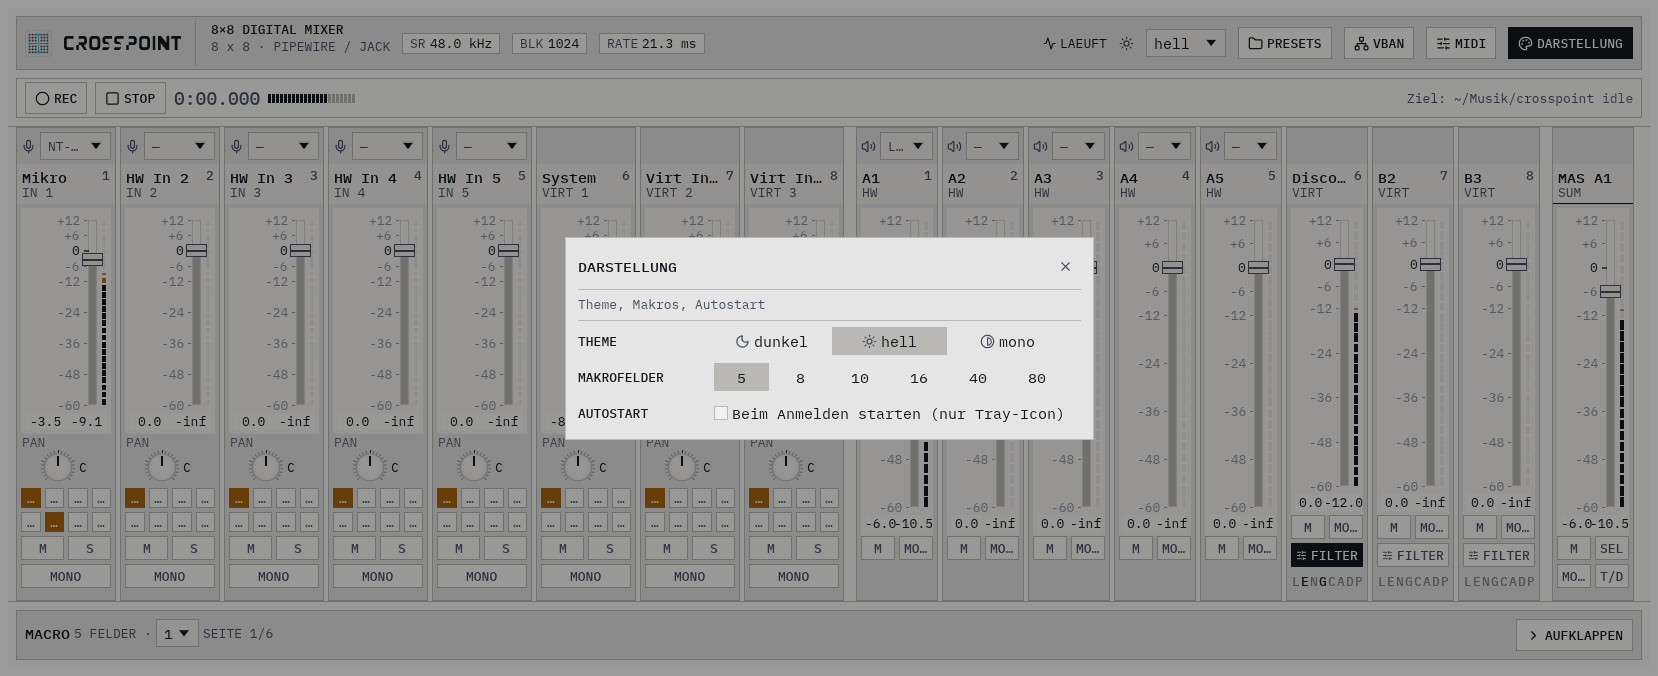
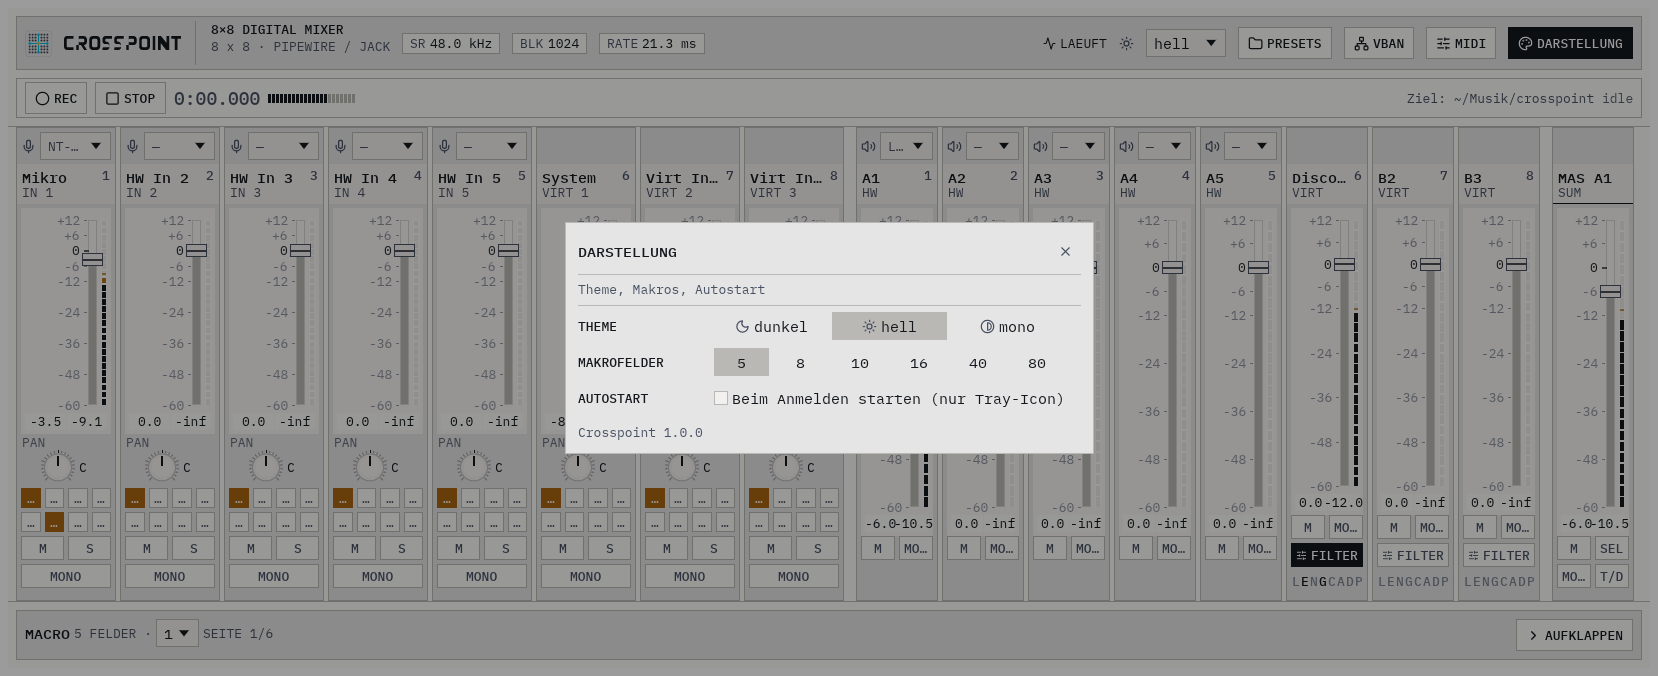
feat: Version unten im DARSTELLUNG-Dialog
Die Version ist jetzt ein Datum im Modell (`Oberflaeche::version`) und
kommt von außen: `src/bin/crosspoint.rs` liest sie aus dem Wurzelpaket
(`env!("CARGO_PKG_VERSION")`) und reicht sie an `betrieb::starten`, das
sie ins Modell legt. Kein `env!` in der Darstellung, und nicht die
Version des Fenster-Crates – das wäre die der Bibliothek.

Unten im DARSTELLUNG-Dialog steht deshalb gedämpft und linksbündig im
Rahmen `Crosspoint 1.0.0` – dieselbe Zahl wie `--version`, in der
Textschrift und im Token für zurückgenommene Schrift, ohne Scrollen.
Gibt es keine Version im Modell (`None`), bleibt die Zeile weg.

Test: `version_steht_unten_in_der_darstellung` prüft bei 1590×640 und
in Mindestgröße, dass die Zeile im Dialog unter dem Autostart steht, den
gedämpften Token trägt und nichts scrollt. Die Version der Bilder und
des Beispielmodells kommt aus der `Cargo.toml` der Wurzel, damit sie
nicht auseinanderläuft. Bilder `darstellung-{dark,light,mono}.png` neu
erzeugt, README und `docs/architektur.md` ergänzt.

Changed region(s): [[0.3384, 0.3107, 0.6767, 0.6834]]

diff --git a/crates/fenster/tests/oberflaeche.rs b/crates/fenster/tests/oberflaeche.rs
@@ -43,6 +43,21 @@ fn eintrag(name: &str, anzeige: &str) -> Eintrag {
     }
 }
 
+/// Die Version, die das Programm anzeigt: sie steht im **Wurzelpaket**
+/// (`Cargo.toml` oben, AGENTS.md §6) und wird im Betrieb vom Binary ins Modell
+/// gelegt. `env!("CARGO_PKG_VERSION")` wäre hier die Version dieses Crates –
+/// deshalb gelesen, nicht abgefragt.
+fn version_der_wurzel() -> String {
+    let pfad = std::path::Path::new(env!("CARGO_MANIFEST_DIR")).join("../../Cargo.toml");
+    let text = std::fs::read_to_string(&pfad).unwrap_or_else(|e| panic!("{}: {e}", pfad.display()));
+    text.lines()
+        .skip_while(|z| z.trim() != "[package]")
+        .skip(1)
+        .find_map(|z| z.trim().strip_prefix("version = "))
+        .map(|v| v.trim().trim_matches('"').to_string())
+        .expect("version im [package] der Wurzel-Cargo.toml")
+}
+
 /// Ein Pult wie im Alltag: Mikro auf A1 und B1, Systemton auf A1, Pegel.
 fn beispiel(thema: Thema) -> (Fenster, Arc<Params>) {
     let params = Arc::new(Params::new(48_000.0, 1024));
@@ -78,6 +93,7 @@ fn beispiel(thema: Thema) -> (Fenster, Arc<Params>) {
     };
     let mut o = Oberflaeche {
         thema,
+        version: Some(version_der_wurzel()),
         ..Oberflaeche::default()
     };
     o.geraete = Geraete::Fertig(Box::new(Bestand {
@@ -154,6 +170,24 @@ fn gezeichnete_flaechen(h: &Harness<'static, Fenster>, farbe: egui::Color32) -> 
             _ => None,
         })
         .collect()
+}
+
+/// Die Farbe, in der ein Text gemalt wurde – so lässt sich prüfen, dass eine
+/// Zeile den Token für gedämpfte Schrift trägt und nicht den der Bedienung.
+fn textfarbe(h: &Harness<'static, Fenster>, inhalt: &str) -> Option<egui::Color32> {
+    fn suche(shape: &egui::Shape, inhalt: &str) -> Option<egui::Color32> {
+        match shape {
+            egui::Shape::Text(t) if t.galley.text() == inhalt => {
+                t.galley.job.sections.first().map(|s| s.format.color)
+            }
+            egui::Shape::Vec(teile) => teile.iter().find_map(|s| suche(s, inhalt)),
+            _ => None,
+        }
+    }
+    h.output()
+        .shapes
+        .iter()
+        .find_map(|cs| suche(&cs.shape, inhalt))
 }
 
 #[test]
@@ -1339,6 +1373,68 @@ fn darstellung_hat_rand_und_gleiche_kanten() {
         assert!(
             rechts[0] <= dialog.right() - thema::SPACE_2,
             "{name}: die Knöpfe enden am Rahmen"
+        );
+    }
+}
+
+/// Die Version steht unten in der DARSTELLUNG: gedämpft in der Schrift der
+/// Beschriftungen, linksbündig im Rahmen unter dem Autostart, nichts scrollt –
+/// und die Zahl kommt aus dem Modell (`betrieb::starten` legt sie hinein,
+/// `--version` gibt dieselbe aus).
+#[test]
+fn version_steht_unten_in_der_darstellung() {
+    use crosspoint_fenster::modell::{Aktion, Dialog};
+    use crosspoint_fenster::thema;
+    let zeile = format!("Crosspoint {}", version_der_wurzel());
+    let min = mindestgroesse();
+    for (breite, hoehe, name) in [(ALLTAG.x, ALLTAG.y, "1590"), (min.x, min.y, "Mindestgröße")] {
+        let (mut f, _) = beispiel(Thema::Dunkel);
+        f.ausfuehren(Aktion::Dialog(Some(Dialog::Darstellung)));
+        let mut h = harness(f, (breite, hoehe));
+        h.run_steps(6);
+        let fenster = egui::Rect::from_min_size(egui::Pos2::ZERO, egui::vec2(breite, hoehe));
+        let dialog = h.get_by_label("Dialog DARSTELLUNG").rect();
+        assert!(
+            fenster.contains_rect(dialog),
+            "{name}: Dialog {dialog:?} läuft aus dem Fenster {fenster:?}"
+        );
+        // Der zugängliche Name der Zeile ist die Zeile selbst.
+        let text = h.get_by_label(&zeile).rect();
+        assert!(
+            dialog.contains_rect(text),
+            "{name}: {text:?} steht nicht im Dialog {dialog:?}"
+        );
+        // Unten: unter dem Autostart-Kästchen, mit Abstand zum Rahmen und
+        // linksbündig wie die Beschriftungen darüber.
+        let autostart = h
+            .get_all_by_label_contains("Beim Anmelden starten")
+            .next()
+            .expect("Autostart-Text fehlt")
+            .rect();
+        assert!(
+            text.top() > autostart.bottom(),
+            "{name}: die Version steht nicht unter dem Autostart ({text:?} / {autostart:?})"
+        );
+        assert!(
+            text.left() >= dialog.left() && text.right() < dialog.right() - thema::SPACE_2,
+            "{name}: die Version stößt an den Rahmen ({text:?} / {dialog:?})"
+        );
+        assert!(
+            text.bottom() <= dialog.bottom(),
+            "{name}: die Version läuft unten aus dem Dialog ({text:?} / {dialog:?})"
+        );
+        // Gedämpft heißt: der Token für zurückgenommene Schrift, nicht der
+        // für die Beschriftungen.
+        assert_eq!(
+            textfarbe(&h, &zeile),
+            Some(Thema::Dunkel.farben().text_muted),
+            "{name}: die Version steht nicht in der gedämpften Farbe"
+        );
+        assert_eq!(
+            h.query_all_by_role(egui::accesskit::Role::ScrollBar)
+                .count(),
+            0,
+            "{name}: Scrollbalken im Dialog"
         );
     }
 }

diff --git a/crates/fenster/src/betrieb.rs b/crates/fenster/src/betrieb.rs
@@ -149,7 +149,7 @@ pub fn danach(
 /// und Symbol laufen weiter, „Fenster zeigen“ öffnet ein neues. So geht es
 /// unter Wayland und X11 gleich – ein Fenster *verstecken* kann winit unter
 /// Wayland nicht.
-pub fn starten(app_id: &str, a: Args) {
+pub fn starten(app_id: &str, version: &str, a: Args) {
     // Läuft schon eine Instanz, zeigt sie ihr Fenster – eine zweite Engine
     // gäbe es sonst doppelt (gleicher Port, gleiche virtuelle Geräte).
     if laufende_instanz_wecken(&a.listen, a.minimiert) {
@@ -187,7 +187,12 @@ pub fn starten(app_id: &str, a: Args) {
     let mut erstes = true;
     loop {
         if zeigen {
-            let mut o = Oberflaeche::default();
+            // Die Version der Anwendung, nicht die dieses Crates: sie kommt
+            // aus dem Binary (Wurzelpaket) und steht unten in der DARSTELLUNG.
+            let mut o = Oberflaeche {
+                version: Some(version.to_string()),
+                ..Oberflaeche::default()
+            };
             konfig::Datei::laden(&konfig::pfad()).anwenden(&mut o);
             o.echo_geraete = crosspoint::echo::auswahl();
             if let Some(t) = a.theme.as_deref() {

diff --git a/crates/fenster/src/modell.rs b/crates/fenster/src/modell.rs
@@ -159,6 +159,11 @@ impl Pegel {
 /// Alles, was das Fenster neben `Params` weiß.
 #[derive(Debug, Clone)]
 pub struct Oberflaeche {
+    /// Version des Wurzelpakets (`CARGO_PKG_VERSION`), wie `--version` sie
+    /// ausgibt. Sie kommt von außen (`betrieb::starten`), nicht aus diesem
+    /// Crate: hier steht nur die Zahl, die in der DARSTELLUNG unten steht.
+    /// `None` = unbekannt, dann bleibt die Zeile weg.
+    pub version: Option<String>,
     pub thema: Thema,
     /// Bus, den der Master-Zug bedient.
     pub master_bus: usize,
@@ -193,6 +198,7 @@ pub struct Oberflaeche {
 impl Default for Oberflaeche {
     fn default() -> Self {
         Oberflaeche {
+            version: None,
             thema: Thema::default(),
             master_bus: 0,
             dialog: None,

diff --git a/crates/fenster/src/ansichten/dialoge.rs b/crates/fenster/src/ansichten/dialoge.rs
@@ -478,4 +478,19 @@ fn darstellung(ui: &mut Ui, f: &Farben, o: &mut Oberflaeche, a: &mut Vec<Aktion>
             }
             ui.end_row();
         });
+    // Unten die Version – gedämpft und linksbündig im Rahmen, wie die
+    // Beschriftungen oben. Sie ist keine Einstellung, sondern eine Auskunft:
+    // dieselbe Zahl, die `crosspoint --version` ausgibt.
+    if let Some(version) = &o.version {
+        ui.add_space(thema::SPACE_2);
+        ui.add(
+            Label::new(bausteine::text(
+                f,
+                &format!("Crosspoint {version}"),
+                false,
+                true,
+            ))
+            .truncate(),
+        );
+    }
 }

diff --git a/src/bin/crosspoint.rs b/src/bin/crosspoint.rs
@@ -19,5 +19,5 @@ fn main() {
         return;
     }
     let args = crosspoint_fenster::betrieb::args_lesen();
-    crosspoint_fenster::betrieb::starten("de.weppelmann.Crosspoint", args);
+    crosspoint_fenster::betrieb::starten("de.weppelmann.Crosspoint", VERSION, args);
 }

diff --git a/docs/architektur.md b/docs/architektur.md
@@ -128,6 +128,14 @@ Themes (`dark`, `light`, `mono`), keine Nutzer-Themes, kein Theme-Editor.
   Skalenzahlen stehen immer da; reicht die Höhe nicht für die Makrofelder,
   zeigt die Leiste nur ihre Kopfzeile. Wählbar bleiben Theme und Zahl der
   Makrofelder – gespeichert in `~/.config/crosspoint/fenster.json`.
+- **Die Version ist eine Zeile, keine Einstellung.** Unten im
+  DARSTELLUNG-Dialog steht gedämpft `Crosspoint <version>`. Die Zahl kommt
+  nicht aus dem Fenster-Crate – dort stünde die Version der Bibliothek –,
+  sondern aus dem Wurzelpaket: `src/bin/crosspoint.rs` liest
+  `env!("CARGO_PKG_VERSION")`, gibt sie an `betrieb::starten` weiter, das sie
+  ins Feld `Oberflaeche::version` legt. Dieselbe Zahl gibt
+  `crosspoint --version` aus und beendet sich dabei, **bevor** eine Instanz
+  geprüft oder JACK geöffnet wird.
 
 ## Plattformen: Linux ausgeliefert, macOS im Unterbau
 
